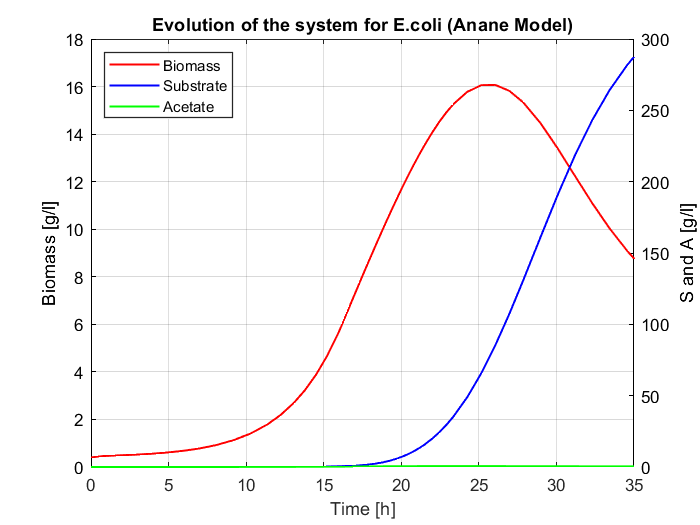
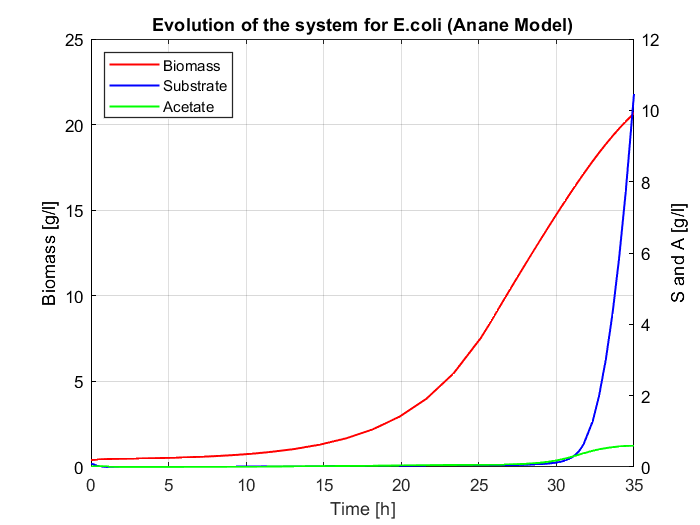
'veo_futbol'

diff --git a/Modelo/Anane/ElbuenAnane.m b/Modelo/Anane/ElbuenAnane.m
@@ -17,7 +17,7 @@ Par = [0.5088	0.0128	0.0001	0.0381	1.2602	1.8383	0.2286	0.1148	0.0133	0.635	0.89
 % mufeed 0.18 optimo
 
 Si = 350;                        % concentration of glucose feed 300 g/L
-mufeed = 0.3;                    % set spec. growth rate during exp. feed
+mufeed = 0.2;                    % set spec. growth rate during exp. feed
 DOTstar = 99;                    % equil. DO concentration at operating pressure & temperature
 Kla = 220;
 tau = 35;                        % response time of DO probe
